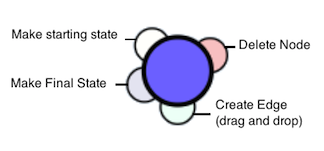
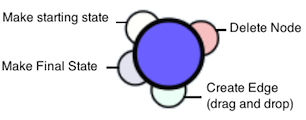
added all keys

Changed region(s): [[0.0, 0.075, 1.0, 0.925]]

diff --git a/web/index.html b/web/index.html
@@ -117,11 +117,23 @@
 				setInterval(update, 10);
     		});
     	</script>
-
-        <div style="position:fixed; bottom:-5; text-align:center;">
+        
+        <div style="float: left; padding: 0px 90px;">
             <img src="untitled.png" alt="" />
-        </div>
-
+        </div> 
+            
+            <div style="float: left; bottom:-5; padding: 0px 90px;">
+            <img src="start.png" alt="" />
+        </div> 
+            
+            <div style="float: left; bottom:-5;padding: 0px 90px;">
+            <img src="final.png" alt="" />
+        </div> 
+            
+            <div style="float: left; bottom:-5; padding: 0px 90px;">
+            <img src="both.png" alt="" />
+        </div> 
+        
     </body>
 
 </html>
